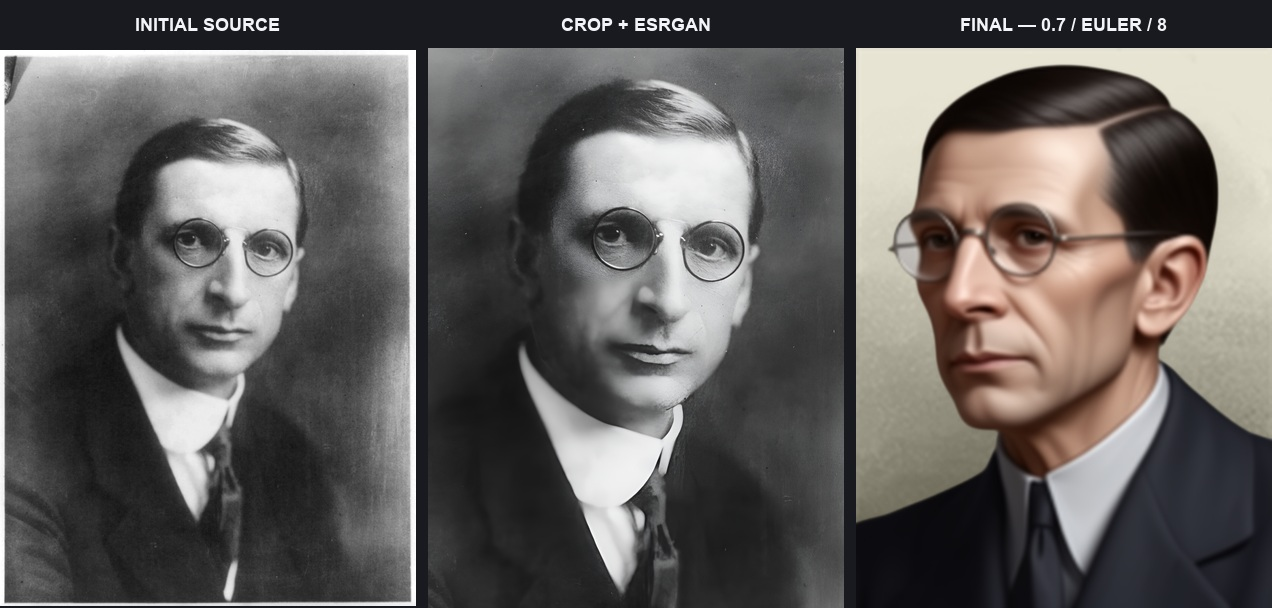
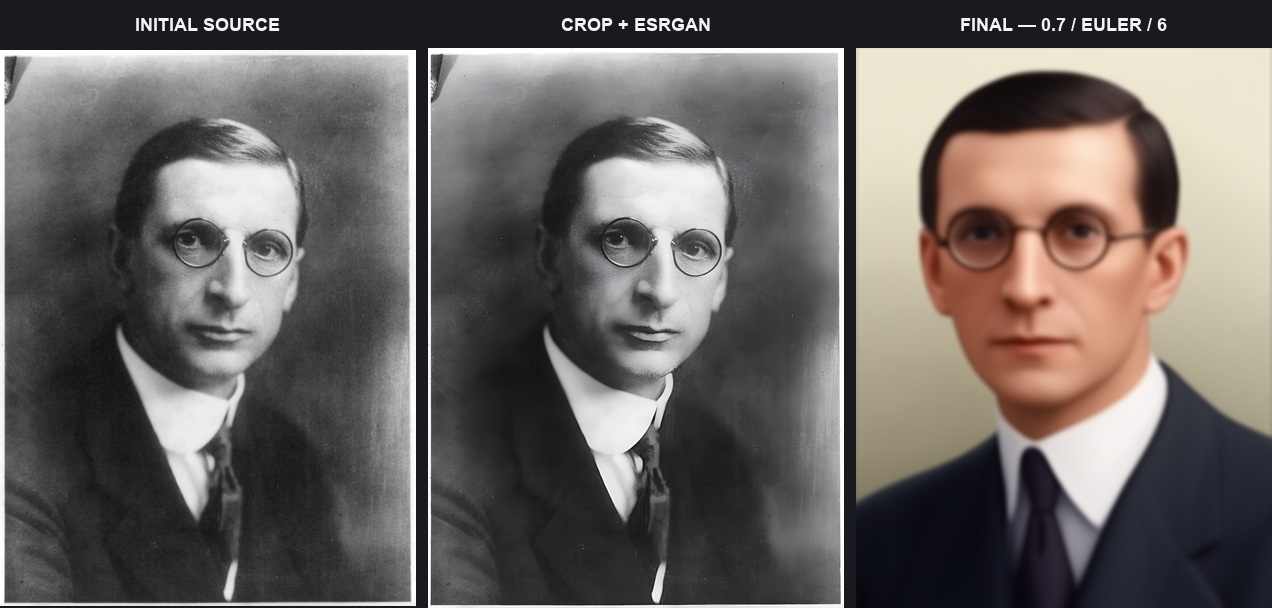
Restore earlier portrait example boards

Changed region(s): [[0.3373, 0.0625, 0.9811, 1.0], [0.9811, 0.6875, 1.0, 0.75], [0.7665, 0.125, 0.7972, 0.1562]]

diff --git a/tests/test_project.py b/tests/test_project.py
@@ -200,6 +200,19 @@ class DocumentationTests(unittest.TestCase):
         ):
             self.assertTrue((ROOT / "docs" / "assets" / "test-runs" / current).is_file(), current)
 
+    def test_readme_gallery_uses_the_requested_older_boards(self) -> None:
+        expected = {
+            "source-processing-01.jpg": "9f6c3f8c4de1",
+            "source-processing-02.jpg": "b4a09d4407f6",
+            "source-processing-03.jpg": "077dfb9c9579",
+            "source-processing-restoration-off-01.jpg": "8c1ea1da97e4",
+            "source-processing-restoration-off-02.jpg": "c7e62859880b",
+            "source-processing-restoration-off-03.jpg": "5e6b1e1ea456",
+        }
+        for filename, prefix in expected.items():
+            digest = hashlib.sha256((ROOT / "docs/assets/test-runs" / filename).read_bytes()).hexdigest()
+            self.assertTrue(digest.startswith(prefix), filename)
+
     def test_readme_contains_source_workflow_visual_walkthrough(self) -> None:
         readme = (ROOT / "README.md").read_text(encoding="utf-8")
         screenshots = (

diff --git a/docs/test-results.md b/docs/test-results.md
@@ -10,7 +10,7 @@ portraits came from the supplied `source_originals.zip`. The archive SHA-256 is
 - ComfyUI 0.25.0;
 - Apple-silicon Mac with 16 GB unified memory and MPS offloading;
 - 416 × 560 evidence output; the public workflow canvas remains 832 × 1120;
-- LoRA strength `0.7` for the evidence boards, Euler, eight steps, CFG 5;
+- LoRA strength `0.7` for the evidence boards, Euler, six steps, CFG 5;
 - the workflows use LoRA strength `0.75` by default with the same sampler;
 - source path: adjustable crop → RealESRGAN → optional FLUX restoration → FLUX.2 Klein 9B LoRA;
 - the first three `source-processing` boards use the optional FLUX restoration

diff --git a/README.md b/README.md
@@ -344,7 +344,7 @@ examples](docs/autoprompter-examples.md) for concise person-only prompts.
 These examples are local runs with the published LoRA. Every source board is
 initial source → processed crop → final portrait. The prompts describe only the
 person; expression, pose, gaze, and facing direction come from the reference.
-The six source boards use LoRA `0.7` / Euler / 8 steps. The workflows use LoRA
+The six source boards use LoRA `0.7` / Euler / 6 steps. The workflows use LoRA
 `0.75` / Euler / 8 steps by default. The examples exclude grayscale, blur, crop
 failures, and pose drift.
 
